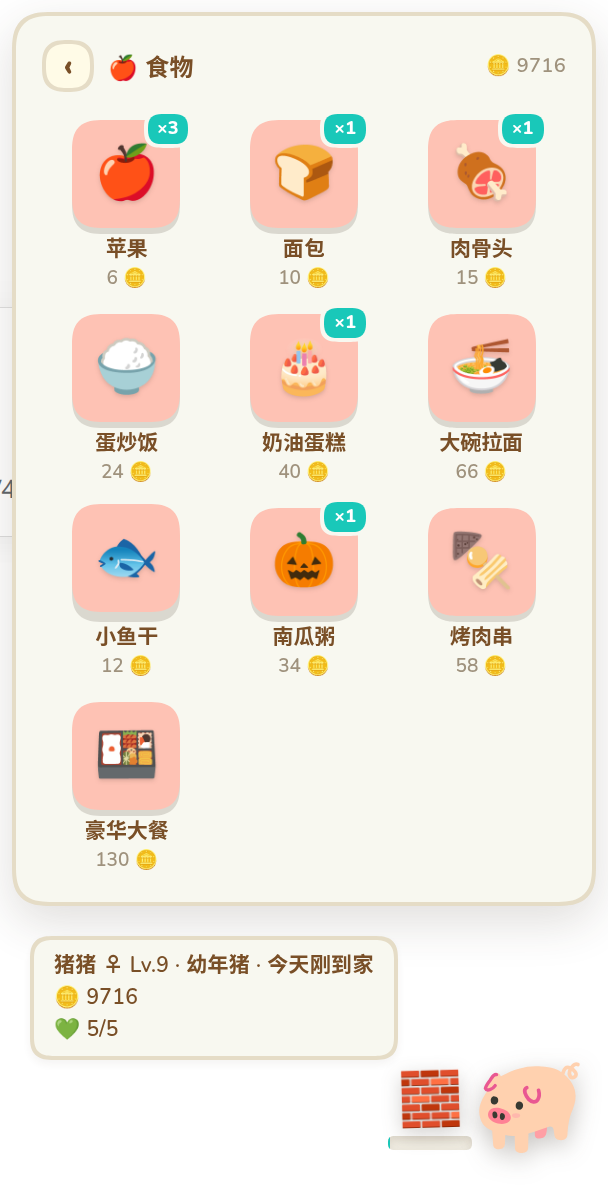
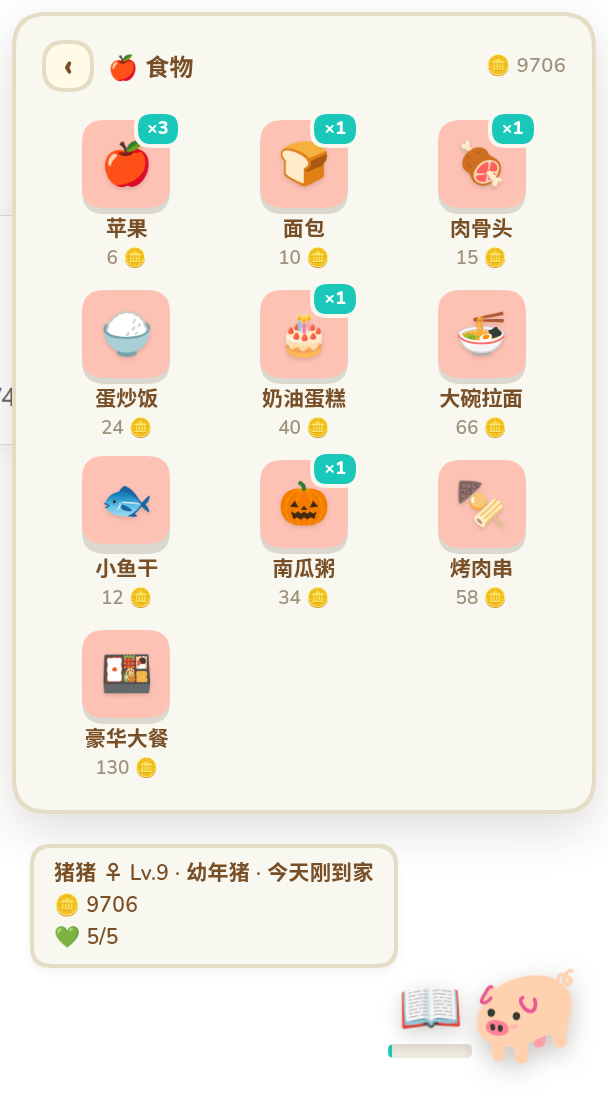
style(pig): 方块改小 —— 第一层 62→50px、里面 54→44px，图标与圆角同比
用户 2026-10-01：面板上的方块太大。三列不变，行距 12→10。
291/291；截图 b9-home / b8-shop-food / b8-study-1 已按新尺寸重截。

diff --git a/client.js b/client.js
@@ -1390,14 +1390,14 @@
     '.dp-tile[data-color="peach"]{--tile-c:var(--tile-peach)}',
     '.dp-tile[data-color="brown"]{--tile-c:var(--tile-brown)}',
     // The grid: three columns that can never be widened by their content.
-    ".dp-tiles{display:grid;grid-template-columns:repeat(3,minmax(0,1fr));gap:12px 8px;padding:4px 2px 2px}",
+    ".dp-tiles{display:grid;grid-template-columns:repeat(3,minmax(0,1fr));gap:10px 8px;padding:4px 2px 2px}",
     // A tile is a column: the coloured square, then its name, then a note.
     ".dp-tile{font:inherit;display:flex;flex-direction:column;align-items:center;gap:4px;min-width:0;",
     "padding:0;margin:0;border:0;background:none;cursor:pointer;color:var(--ac-text)}",
     ".dp-tile-icon{position:relative;display:flex;align-items:center;justify-content:center;",
-    "width:62px;height:62px;border-radius:18px;background:var(--tile-c,var(--ac-bg-content));",
+    "width:50px;height:50px;border-radius:15px;background:var(--tile-c,var(--ac-bg-content));",
     "box-shadow:0 3px 0 rgba(61,52,40,.16);transition:transform .15s var(--ac-ease),box-shadow .15s var(--ac-ease)}",
-    ".dp-tile-e{font-size:30px;line-height:1;filter:drop-shadow(0 1px 1px rgba(61,52,40,.18))}",
+    ".dp-tile-e{font-size:24px;line-height:1;filter:drop-shadow(0 1px 1px rgba(61,52,40,.18))}",
     ".dp-tile:hover:not(:disabled) .dp-tile-icon{transform:translateY(-2px);box-shadow:0 5px 0 rgba(61,52,40,.16)}",
     ".dp-tile:active:not(:disabled) .dp-tile-icon{transform:translateY(2px);box-shadow:0 1px 0 rgba(61,52,40,.16)}",
     ".dp-tile:focus-visible{outline:none}",
@@ -1412,9 +1412,10 @@
     ".dp-tile-badge{right:-6px;background:var(--ac-primary);color:#fff}",
     ".dp-tile-tag{left:-6px;background:var(--ac-warning);color:var(--ac-text)}",
     // Second layer: the same colour, a shade paler and a little smaller.
-    ".dp-tile-soft .dp-tile-icon{width:54px;height:54px;border-radius:16px;",
+    // Sizes trimmed on 2026-10-01 (owner: the tiles were too big): 50px / 44px.
+    ".dp-tile-soft .dp-tile-icon{width:44px;height:44px;border-radius:13px;",
     "background:color-mix(in srgb,var(--tile-c) 42%,#fffbe7)}",
-    ".dp-tile-soft .dp-tile-e{font-size:26px}",
+    ".dp-tile-soft .dp-tile-e{font-size:21px}",
     // Locked: greyed but still openable (a stage can be looked into before it opens).
     '.dp-tile[data-locked="true"] .dp-tile-icon{filter:grayscale(.75);opacity:.6}',
     '.dp-tile[data-dim="true"] .dp-tile-icon,.dp-tile:disabled .dp-tile-icon{opacity:.45;box-shadow:none}',

diff --git a/src/client/css-tiles.js b/src/client/css-tiles.js
@@ -25,15 +25,15 @@ export const CSS_TILES = [
   '.dp-tile[data-color="brown"]{--tile-c:var(--tile-brown)}',
 
   // The grid: three columns that can never be widened by their content.
-  '.dp-tiles{display:grid;grid-template-columns:repeat(3,minmax(0,1fr));gap:12px 8px;padding:4px 2px 2px}',
+  '.dp-tiles{display:grid;grid-template-columns:repeat(3,minmax(0,1fr));gap:10px 8px;padding:4px 2px 2px}',
 
   // A tile is a column: the coloured square, then its name, then a note.
   '.dp-tile{font:inherit;display:flex;flex-direction:column;align-items:center;gap:4px;min-width:0;',
   'padding:0;margin:0;border:0;background:none;cursor:pointer;color:var(--ac-text)}',
   '.dp-tile-icon{position:relative;display:flex;align-items:center;justify-content:center;',
-  'width:62px;height:62px;border-radius:18px;background:var(--tile-c,var(--ac-bg-content));',
+  'width:50px;height:50px;border-radius:15px;background:var(--tile-c,var(--ac-bg-content));',
   'box-shadow:0 3px 0 rgba(61,52,40,.16);transition:transform .15s var(--ac-ease),box-shadow .15s var(--ac-ease)}',
-  '.dp-tile-e{font-size:30px;line-height:1;filter:drop-shadow(0 1px 1px rgba(61,52,40,.18))}',
+  '.dp-tile-e{font-size:24px;line-height:1;filter:drop-shadow(0 1px 1px rgba(61,52,40,.18))}',
   '.dp-tile:hover:not(:disabled) .dp-tile-icon{transform:translateY(-2px);box-shadow:0 5px 0 rgba(61,52,40,.16)}',
   '.dp-tile:active:not(:disabled) .dp-tile-icon{transform:translateY(2px);box-shadow:0 1px 0 rgba(61,52,40,.16)}',
   '.dp-tile:focus-visible{outline:none}',
@@ -48,9 +48,10 @@ export const CSS_TILES = [
   '.dp-tile-badge{right:-6px;background:var(--ac-primary);color:#fff}',
   '.dp-tile-tag{left:-6px;background:var(--ac-warning);color:var(--ac-text)}',
   // Second layer: the same colour, a shade paler and a little smaller.
-  '.dp-tile-soft .dp-tile-icon{width:54px;height:54px;border-radius:16px;',
+  // Sizes trimmed on 2026-10-01 (owner: the tiles were too big): 50px / 44px.
+  '.dp-tile-soft .dp-tile-icon{width:44px;height:44px;border-radius:13px;',
   'background:color-mix(in srgb,var(--tile-c) 42%,#fffbe7)}',
-  '.dp-tile-soft .dp-tile-e{font-size:26px}',
+  '.dp-tile-soft .dp-tile-e{font-size:21px}',
   // Locked: greyed but still openable (a stage can be looked into before it opens).
   '.dp-tile[data-locked="true"] .dp-tile-icon{filter:grayscale(.75);opacity:.6}',
   '.dp-tile[data-dim="true"] .dp-tile-icon,.dp-tile:disabled .dp-tile-icon{opacity:.45;box-shadow:none}',
